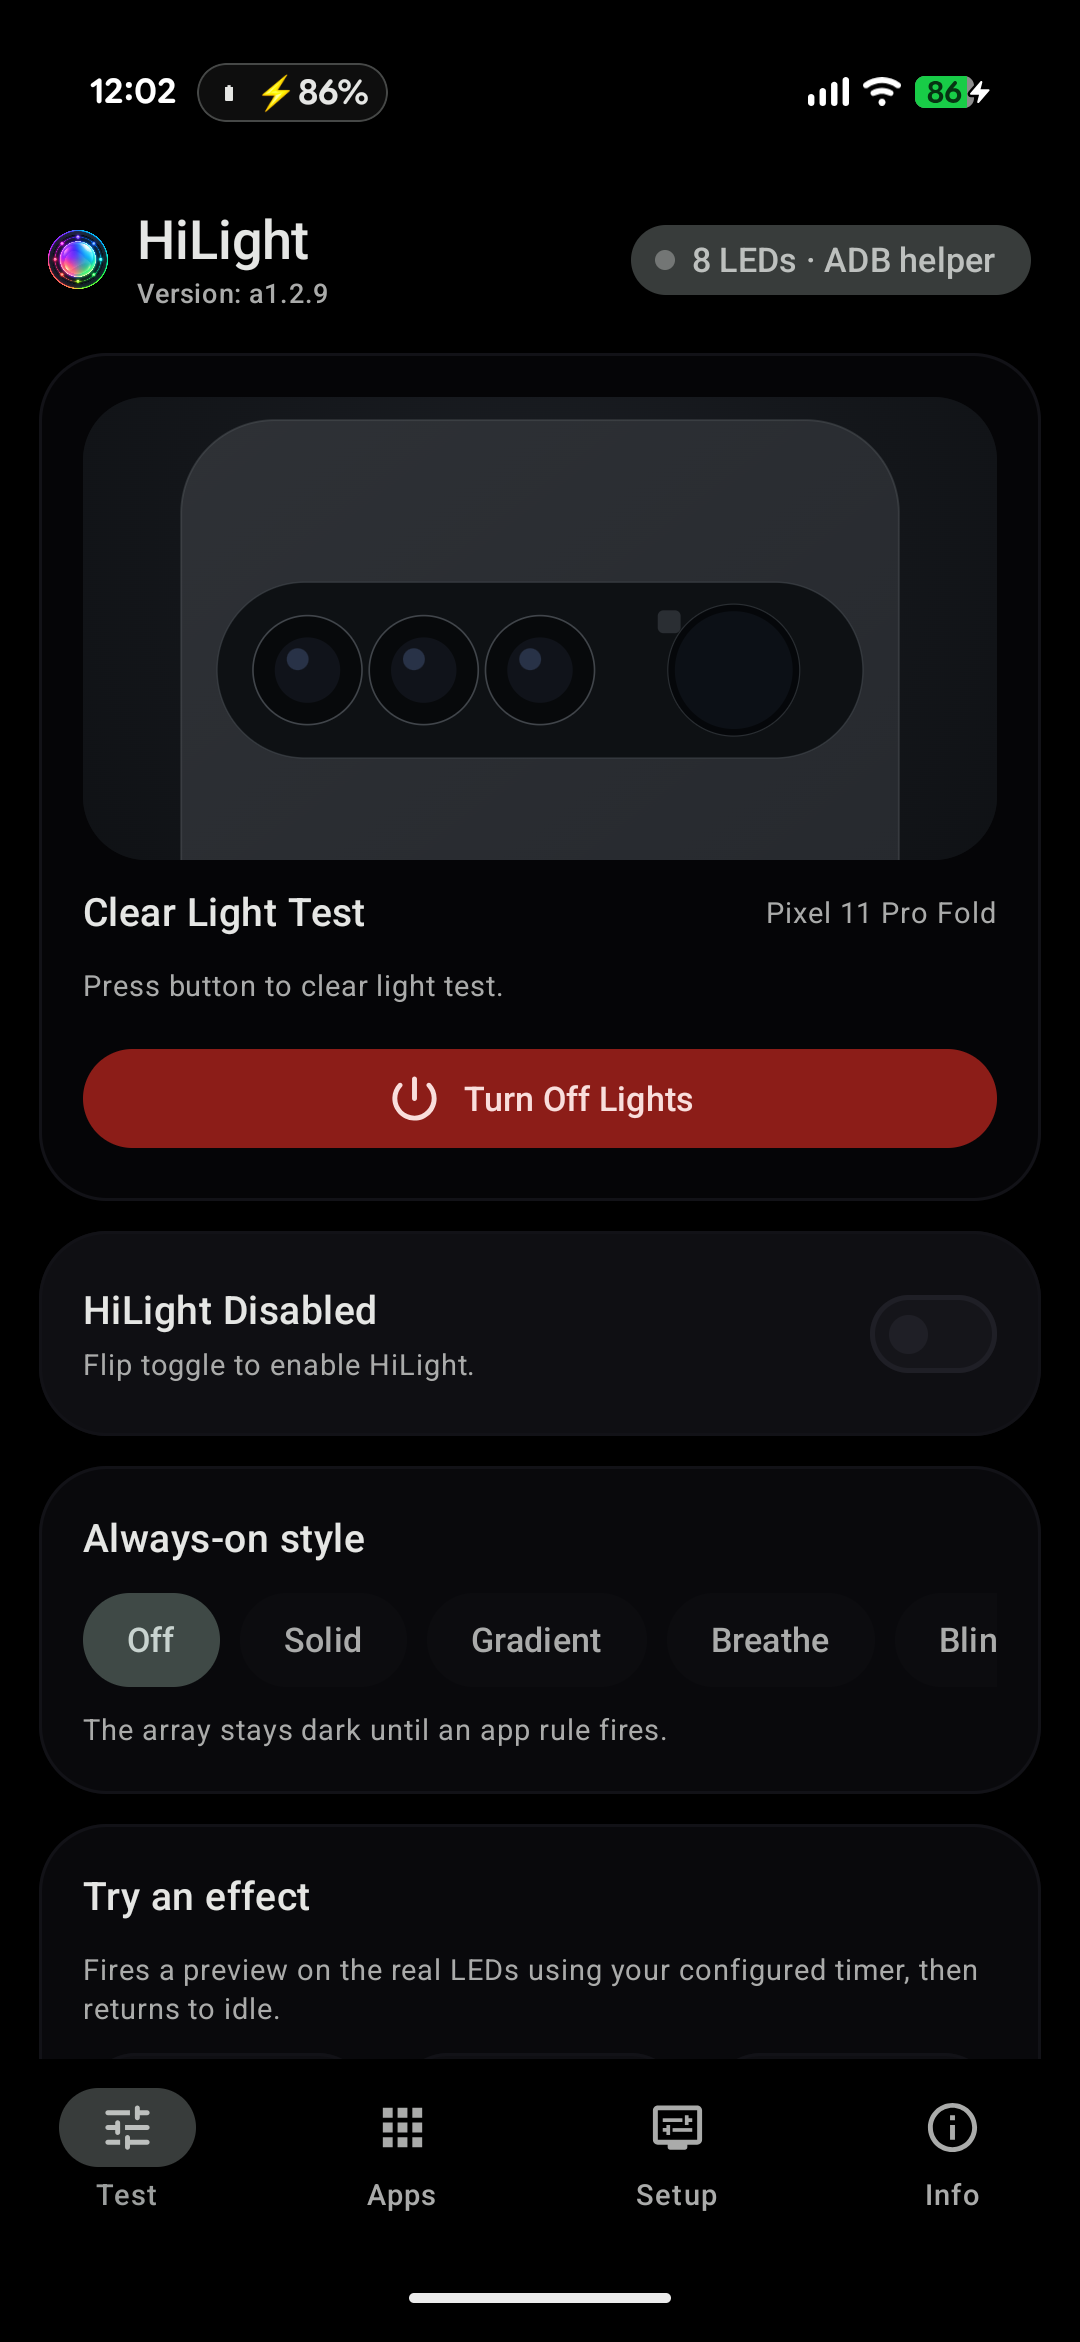
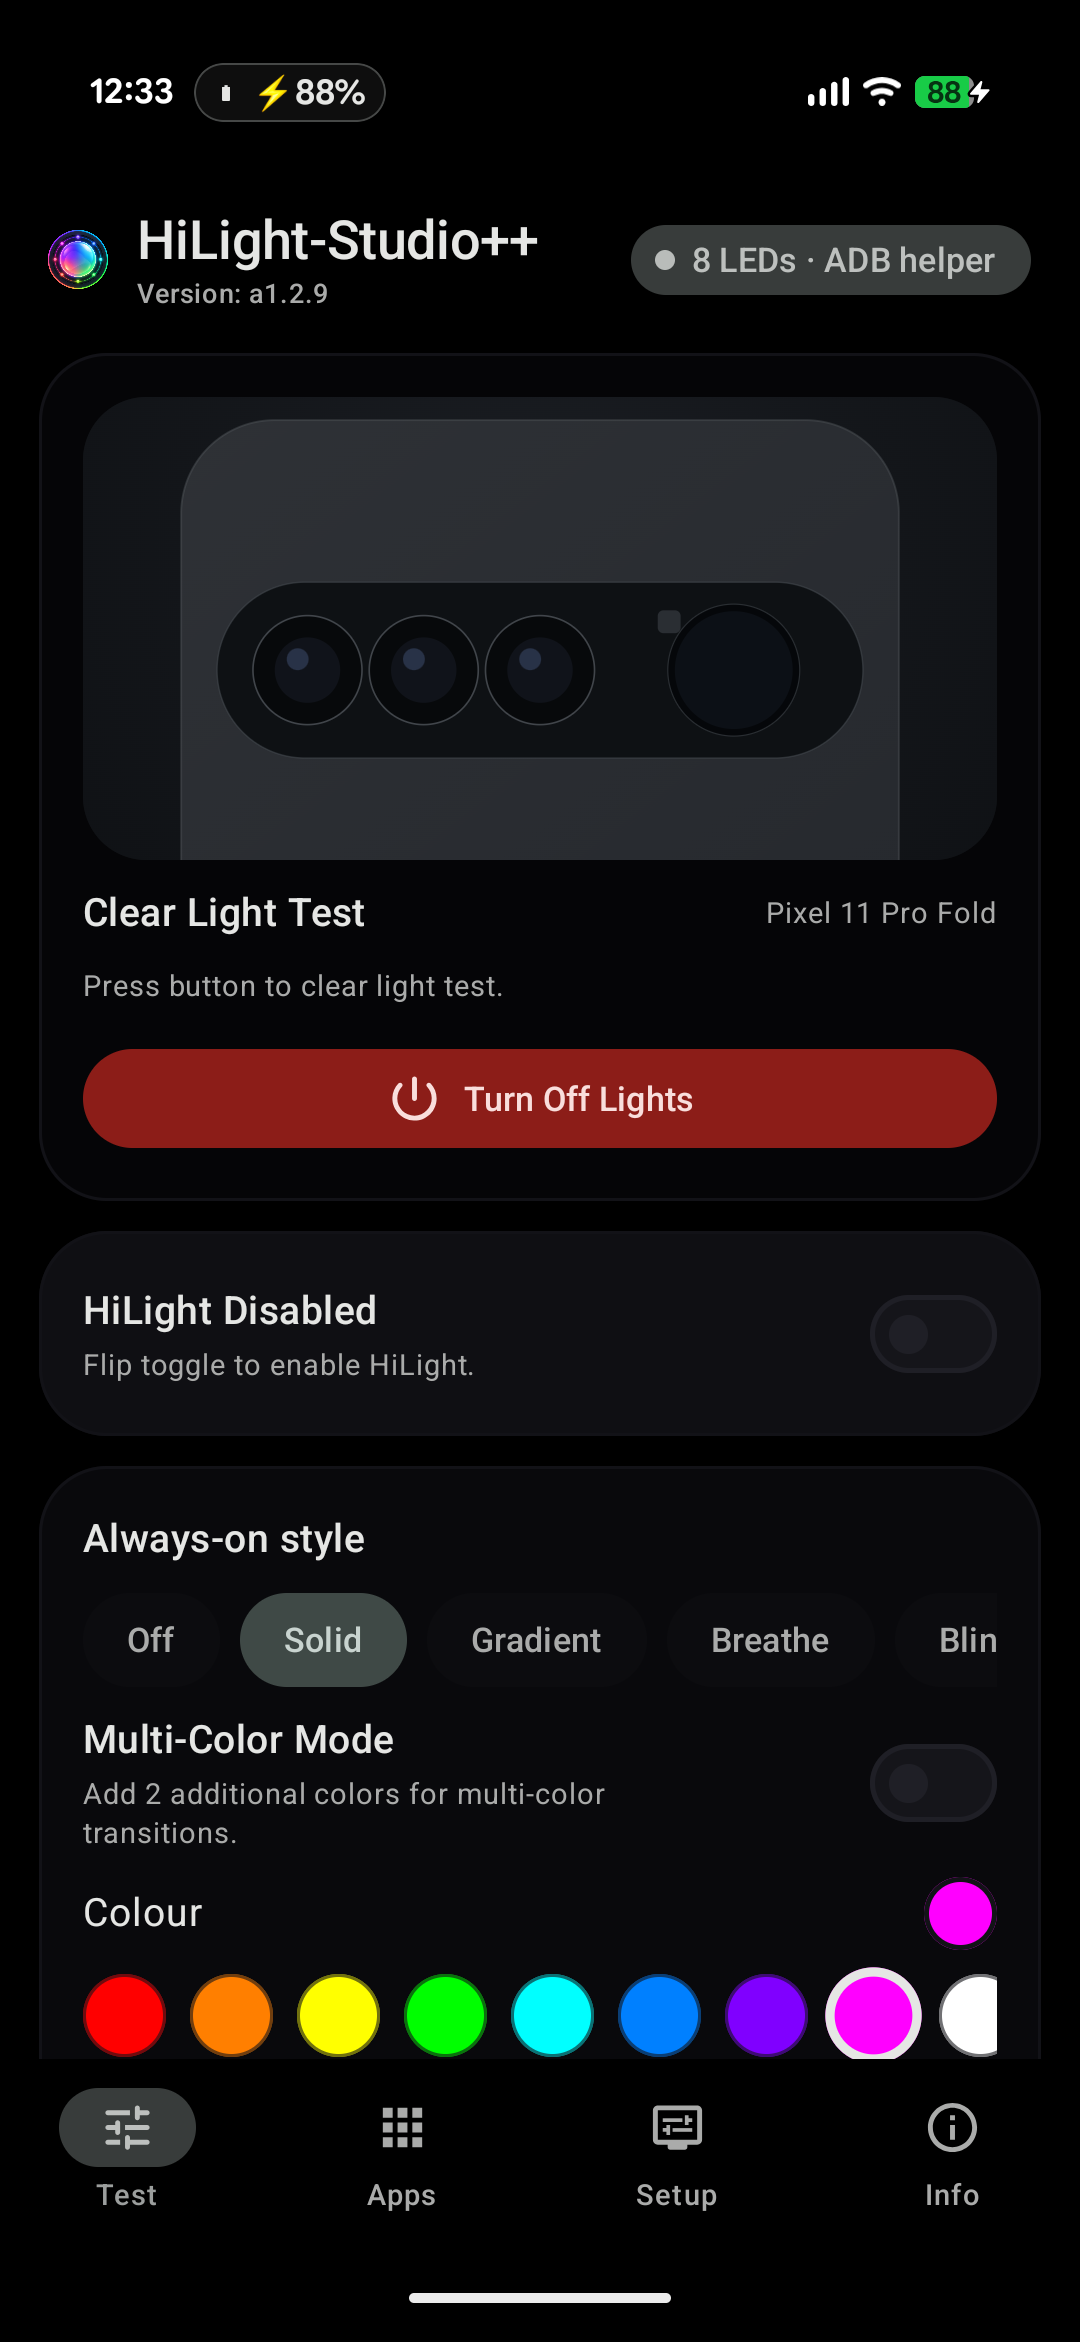
feat(ui): update top app bar branding to HiLight-Studio++ and refresh all folded and unfolded screenshots

diff --git a/app/src/main/java/com/hilight/studio/MainActivity.kt b/app/src/main/java/com/hilight/studio/MainActivity.kt
@@ -191,7 +191,7 @@ private fun App(store: Store) {
                         )
                         Spacer(Modifier.width(8.dp))
                         Column {
-                            Text("HiLight", style = MaterialTheme.typography.titleLarge)
+                            Text("HiLight-Studio++", style = MaterialTheme.typography.titleLarge)
                             Text(
                                 text = "Version: ${BuildConfig.VERSION_NAME}",
                                 style = MaterialTheme.typography.labelSmall,
